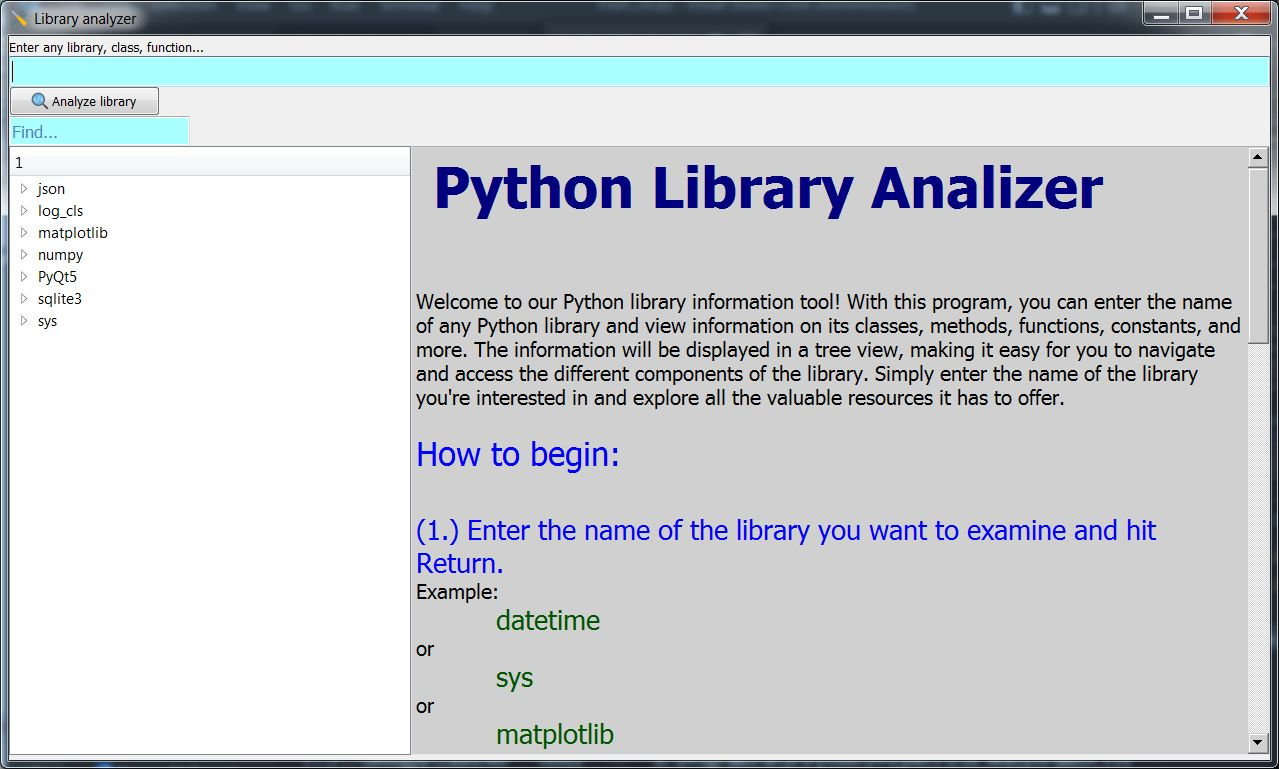
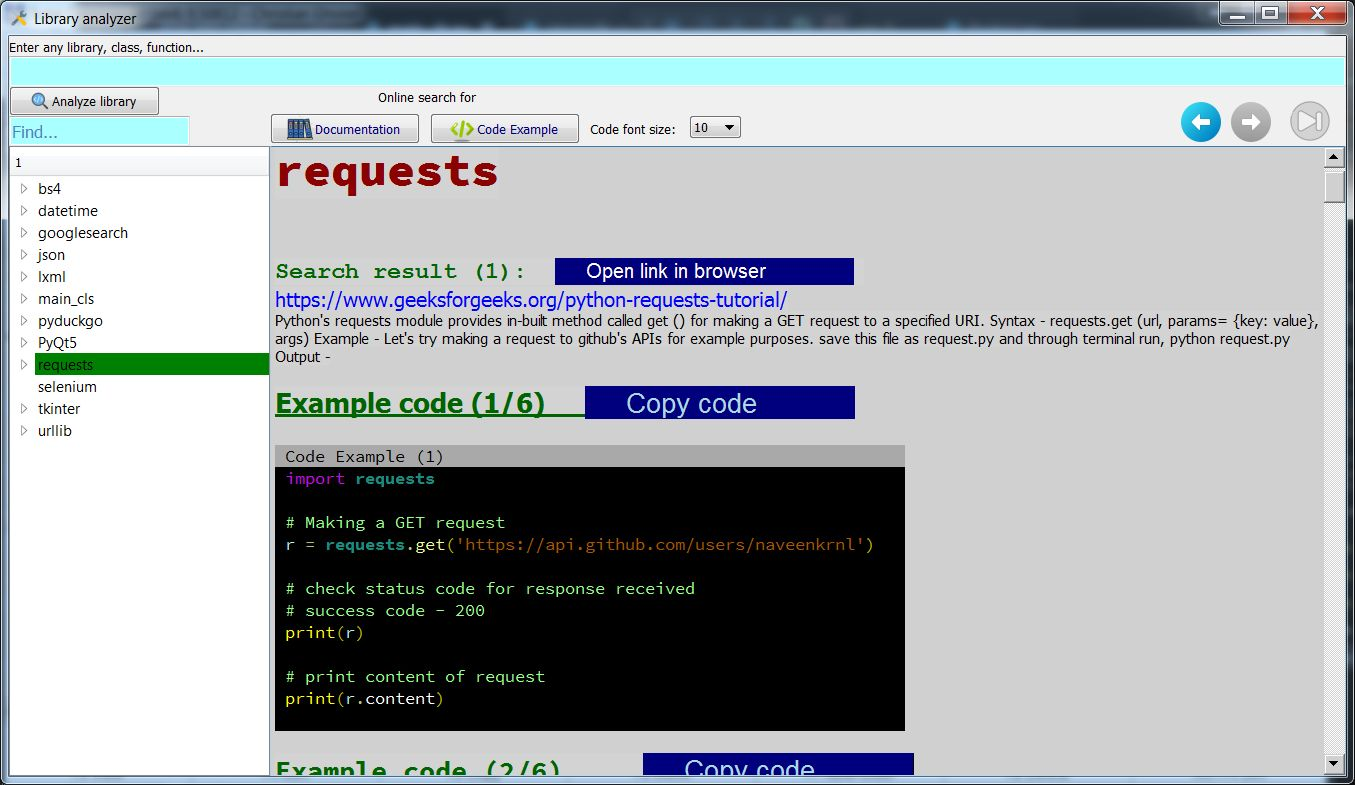
Updated readme and screenshot.

diff --git a/analyze.py b/analyze.py
@@ -119,5 +119,5 @@ class IspitajObjekat():
 
 class do_it():
     def __init__(self):
-        import googlesearch
-        i = IspitajObjekat(googlesearch)
+        import requests
+        i = IspitajObjekat(requests)

diff --git a/online_search.py b/online_search.py
@@ -1,6 +1,5 @@
 from bs4 import BeautifulSoup as bs
 import requests
-import googlesearch
 import urllib.request
 
 

diff --git a/README.md b/README.md
@@ -8,7 +8,18 @@ This program allows you to enter the name of any Python library and view informa
 
 ### Prerequisites 
 
-To run this program, you'll need to have Python 3 and the PyQt5 library installed on your computer.
+Before running this application, make sure you have the following installed:
+	- Python 3.x
+Libraries:
+	- PyQt5
+	- importlib
+	- json
+	- webbrowser
+	- bs4 (BeautifulSoup)
+	- requests
+	- urllib
+	- inspect
+	- lxml
 
 ## Usage 
 
